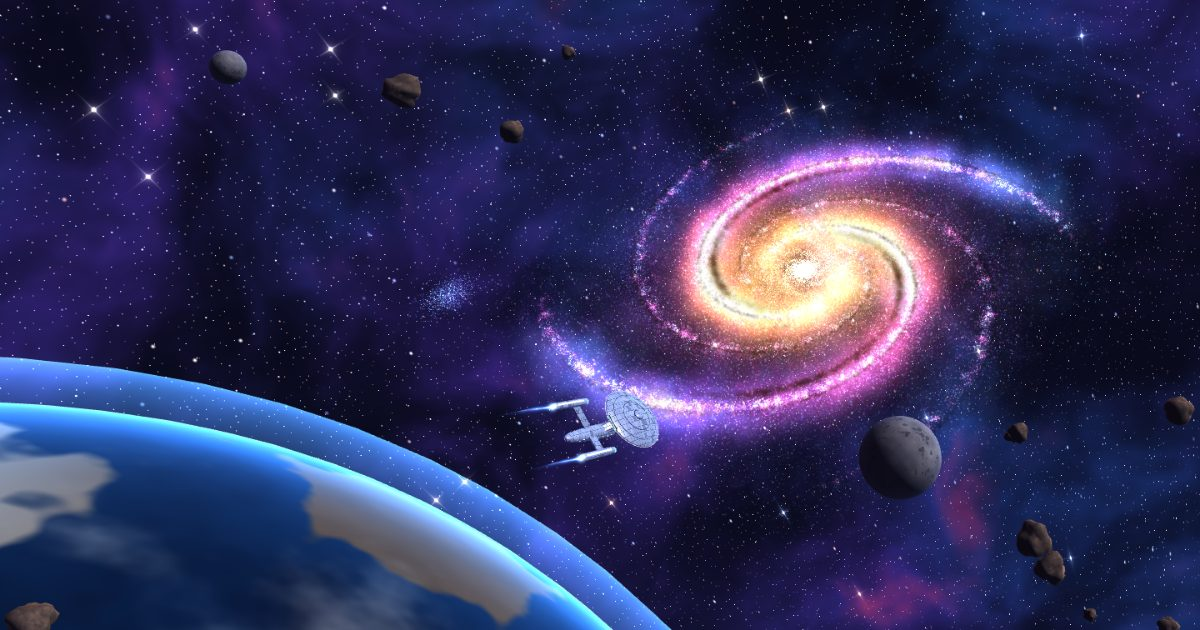
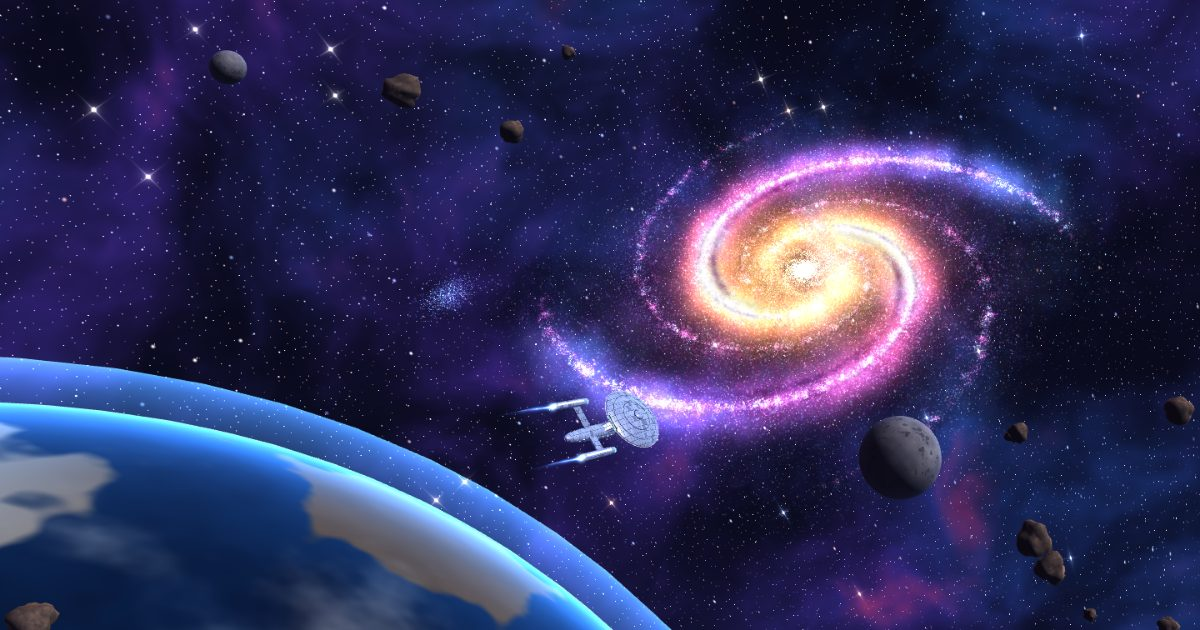
💄 style: Soften the spiral galaxy's dust lanes into a violet shadow

diff --git a/src/scene/scenes/atlas/model.ts b/src/scene/scenes/atlas/model.ts
@@ -222,7 +222,8 @@ function buildDust(rng: Rng, n: number): Cloud {
     if (rand() > 0.3 + 0.7 * (0.5 + 0.5 * Math.sin(th * 5 + arm * 2.1))) continue; // patchy, not a painted stripe
     const rr = r - (0.03 + 0.05 * r) + gauss() * 0.008;
     const k = (0.6 + rand() * 0.4) * sstep(0.25, 0.4, r) * (1 - sstep(0.7, 0.93, r)); // thins toward core and rim
-    put(rng, d, rr * Math.cos(th), gauss() * 0.004, rr * Math.sin(th), [0.62 * k, 0.78 * k, 0.95 * k], 5 + rand() * 8); // takes more blue than red
+    // D-198: takes more green than red or blue, so what shows through is a deep violet shadow, not brown-black
+    put(rng, d, rr * Math.cos(th), gauss() * 0.004, rr * Math.sin(th), [0.5 * k, 0.78 * k, 0.45 * k], 5 + rand() * 8);
   }
   return d;
 }
@@ -410,7 +411,7 @@ function buildFineDust(n: number): Cloud {
       const rr = r / GAL_R;
       const th = th0 + u;
       const k = (0.5 + rand() * 0.5) * sstep(0.14, 0.3, rr) * (1 - sstep(0.85, 1.0, rr));
-      put(rng, d, r * Math.cos(th) + gauss() * 0.004, gauss() * 0.003, r * Math.sin(th) + gauss() * 0.004, [0.6 * k, 0.75 * k, 0.95 * k], 2.2 + rand() * 3.5);
+      put(rng, d, r * Math.cos(th) + gauss() * 0.004, gauss() * 0.003, r * Math.sin(th) + gauss() * 0.004, [0.5 * k, 0.75 * k, 0.45 * k], 2.2 + rand() * 3.5);
     }
   }
   return d;

diff --git a/src/scene/scenes/atlas/world.ts b/src/scene/scenes/atlas/world.ts
@@ -53,9 +53,9 @@ import { StartProps } from "./start";
 import { armAngle, buildAtlas, COUNTS, joinClouds, mix, OUTER, SPIN, sstep, TAU, type Cloud, type Vec3 } from "./model";
 
 // base strengths, faded out together at the far zoom
-const A = { haze: 0.05, body: 0.02, dust: 0.1, core: 0.2, halo: 0.8 };
+const A = { haze: 0.05, body: 0.02, dust: 0.065, core: 0.2, halo: 0.8 }; // dust softened in D-198 (was 0.1)
 // S2 (D-111): the disc's new layers, at the `high` counts
-const S2 = { filaments: 0.45, clusterStars: 0.85, clusterGlow: 0.09, clouds: 0.04, fineDust: 0.16, heart: 0.035, webStrands: 0.42, webGlow: 0.26 };
+const S2 = { filaments: 0.45, clusterStars: 0.85, clusterGlow: 0.09, clouds: 0.04, fineDust: 0.1, heart: 0.035, webStrands: 0.42, webGlow: 0.26 };
 /** D-112: how fast the black hole's disc and its feeding streams turn (radians per second), and their strength. */
 const NUCLEUS_SPIN = 0.22;
 const NUCLEUS = { glow: 1.6 };

diff --git a/context/DECISIONS.md b/context/DECISIONS.md
@@ -294,3 +294,4 @@ The owner clicked through S1: "Much better", then asked for the changes below, w
 | D-195 | **A closer Moon, and a city-sized threat (owner, 2026-11-24).** (1) Its Moon is framed at min(0.3 × height, 0.2 × width) per radius (was 0.25 and 0.17), so it fills about three fifths of a laptop's height; larger touched the header. (2) An Asteroid's line, in the owner's words made true: "One smaller than a football stadium could wipe out a whole city." The Meteor Crater asteroid was "likely in the range of 100 to 170 feet (30 to 50 meters) across" and "A similar-size impact event today could destroy a city the size of Kansas City" (NASA Earth Observatory, "Arizona's Meteor Crater"); NASA calls 140 meters "larger than a small football stadium" (Near-Earth Object Observations Program); both checked 2026-11-24. The Chicxulub line and its source, NASA's "Asteroid Facts", are retired. | The owner: "the moon looks a little zoomed out"; the asteroid line should say "an asteroid the size of a football stadium can easily wipe out a city". | "The size of a football stadium … easily" as asked (no source says a stadium-sized rock, or "easily"; a smaller rock destroying a city is sourced and makes the same point). |
 | D-196 | **Six scenes refined and Its Black Hole (owner, 2026-11-24).** (1) **Nebula:** long, ragged dark lanes of dust wind through the glow (ridged noise, broken up, kept off the heart), their edges facing the heart lit rose-gold; the threads are finer and brighter; the gas threshold is higher and the haze round the heart halved, so the darks are deeper. (2) **A Comet:** the head sits right of the middle and a little low, so the tails sweep the frame; the dust tail swings well off the gas tail, curving, fanned into fine striations; the gas tail kinks and streams faster; the coma is compact and green-white (as many comets' are), glowing over the nucleus only faintly. (3) **A Molecular Cloud:** the baby stars were placed at +look while the dust is drawn at u + look, so a drag pulled them off the pillars; they now sit at their place minus look. The pillars are shaded as columns lit from up and left, their heads boil off in gold streamers, three hot young stars blaze high in the frame with faint spikes, the gas behind is more contrasted with lit upper edges, and a dark wisp of nearer dust crosses the lower right. (4) **A Red Giant** is framed at 0.4 × height (was 0.24) with smaller cells boiling inside the giant ones; **Quasi-Star** at 0.47 × height (was 0.24), larger than the red giant, with finer cells and grain. (5) **Its Black Hole** (`/quasi-star-black-hole`), inside the quasi-star (inner anchor `seed`, the heart): no sky, the star's ember gas spiralling in without end, the black shadow ringed by bent light, a thin blazing disc crossing in front (brighter on the approaching side) and its far side bent up over the shadow. Line: "A newborn black hole, feeding on and powering the star around it.", from the quasi-star's arXiv source ("a natal BH accretes mass from and energetically sustains (through accretion) an overlying gaseous envelope"). It shares the quasi-star's music. (6) **Neutron Star**'s line says how small it is: "About 20 km across; a sugar-cube-sized piece weighs about a billion tons." (NASA Imagine the Universe, "These stellar remnants measure about 20 kilometers (12.5 miles) across.", checked 2026-11-24); it stays small on screen, as the owner noted it should. | The owner: nebula and comet "feel slightly underwhelming"; the neutron star "supposed to be small, maybe say that in the message"; the molecular cloud "feels slightly lame" and its four light points could be dragged off the clouds; "make red giant also bigger"; "improve quasi star by making it bigger and allowing user to enter star and see the black hole inside it". | Dark globules in the nebula (round ones read as planets); a separate music loop for Its Black Hole. |
 | D-197 | **A hurtling comet and a nebula with depth (owner, 2026-11-24).** (1) **A Comet:** a drag no longer swings the star and tails round (it shifts the view a little); instead the comet hurtles toward its star: the nucleus tumbles on two axes, its outline turning with it; the stars stream past the other way, each drawn out slightly (four samples along the motion); close dust grains flash past as streaks at two speeds; the gas tail's streamers flow twice as fast. (2) **Nebula:** a near cliff of billowing gas and dust across the bottom of the frame (as in Carina's "cosmic cliffs"), its crest lit rose-gold by the cluster, billows inside it catching the light on their tops, steam rising off it, moving most in a drag; the cluster's light is shadowed by the dust between each point and the heart (twelve samples toward the heart) and streams out in faint rays where it gets through; the near dust at the edges is darker and drifts slowly. | The owner: for the comet "I should not be able to rotate it instead make it look like it is hurling across space (like rotate the rock part)"; "the nebula still feels flat". | Rays alone (they only darkened the edges); a continuous dolly through the nebula (it would break the fixed composition and the copy's calm corner). |
+| D-198 | **Softer, violet dust lanes in the spiral galaxy (owner, 2026-11-24).** The dark lanes on the arms' inner edges stay (real spirals have them), but the dust layer's strength drops from 0.1 to 0.065 and the fine dust's from 0.16 to 0.1, and both now take more green than red or blue from what is behind, so they read as a deep violet shadow instead of brown-black streaks. | The owner asked why there was "black stuff" in the galaxy; told they are dust lanes, they chose to soften them. | Removing them (the galaxy reads flatter). |

diff --git a/context/PROGRESS_TRACKER.md b/context/PROGRESS_TRACKER.md
@@ -87,6 +87,7 @@ Limits: draw calls on `low` under 30, scene chunks under 40 KB. Tests that need 
 - **2026-11-24 (scene refinement), D-195:** Its Moon framed closer (about three fifths of a laptop's height across); An Asteroid's line is now "One smaller than a football stadium could wipe out a whole city." (NASA Earth Observatory's Meteor Crater, NASA's Near-Earth Object Observations Program). **Checked:** `npm run check`, `npm run build`, `npm run shots` for both, posters re-rendered.
 - **2026-11-24 (scene refinement), D-196:** Six scenes: Nebula (winding dark dust lanes lit gold on the heart's side, finer threads, deeper darks); A Comet (head right of the middle, tails sweeping the frame, a curving striated dust tail apart from a kinked gas tail, a compact green-white coma); A Molecular Cloud (baby stars now stay in their pillars in a drag; shaded columns, gold streamers boiling off the heads, three hot stars high in the frame, a near dust wisp); A Red Giant and Quasi-Star larger with finer surface cells; a new place inside the quasi-star, Its Black Hole (52 places); Neutron Star's line now says it is about 20 km across. **Checked:** `npm run check`, `npm run build`, `npm run shots` for each route, posters re-rendered, the built quasi-star pages link down and back up.
 - **2026-11-24 (scene refinement), D-197:** A Comet hurtles: the nucleus tumbles, stars stream past drawn out by the speed, close dust grains flash by, the gas tail flows faster; a drag only shifts the view. Nebula has depth: a near cliff of billowing gas across the bottom with a lit crest and steam, the cluster's light casting shadows and rays through the cloud, darker drifting near dust at the edges. **Checked:** `npm run check`, `npm run build`, `npm run shots` for both, posters re-rendered.
+- **2026-11-24 (scene refinement), D-198:** The spiral galaxy's dust lanes softened and tinted: about a third fainter, a deep violet shadow instead of brown-black. **Checked:** `npm run check`, `npm run build`, `npm run shots` for the galaxy and its close view, the start poster re-rendered.
 - **2026-11-24 (new place, probes), D-189:** The Last Civilization (a hibernating civilization round a dim white dwarf, in A Quasar Galaxy, with its own loop) and a redrawn Von Neumann Probes (a binary tree of self-copying probes eating a belt). 46 places. **Checked:** `npm run check`, `npm run build`, stills of both (awake and asleep; mid-tree and leaving) on laptop and phone, the new hotspot's place in the Quasar Galaxy, posters and share images rendered.
 - **2026-11-24 (small fixes), D-188:** Larger play icon; a drag turns every universe in the Multiverse; glass tooltips (`data-tip`) on the video and Sound buttons; the web and supervoid swap music. **Checked:** `npm run check`; live in Chrome: the Multiverse before and after a drag, both tooltips on hover.
 - **2026-11-24 (the ending), D-187:** Zoom Out past the Omniverse is now a cinematic ending: fade to black, the two lines rise out of a blur one after the other, then Return. The music key is read under `Music` or `MUSIC_KEY`. **Checked:** `npm run check`; live in Chrome: the ending at several moments, Return closes it, the Omniverse loop loads with the key under `MUSIC_KEY`.
